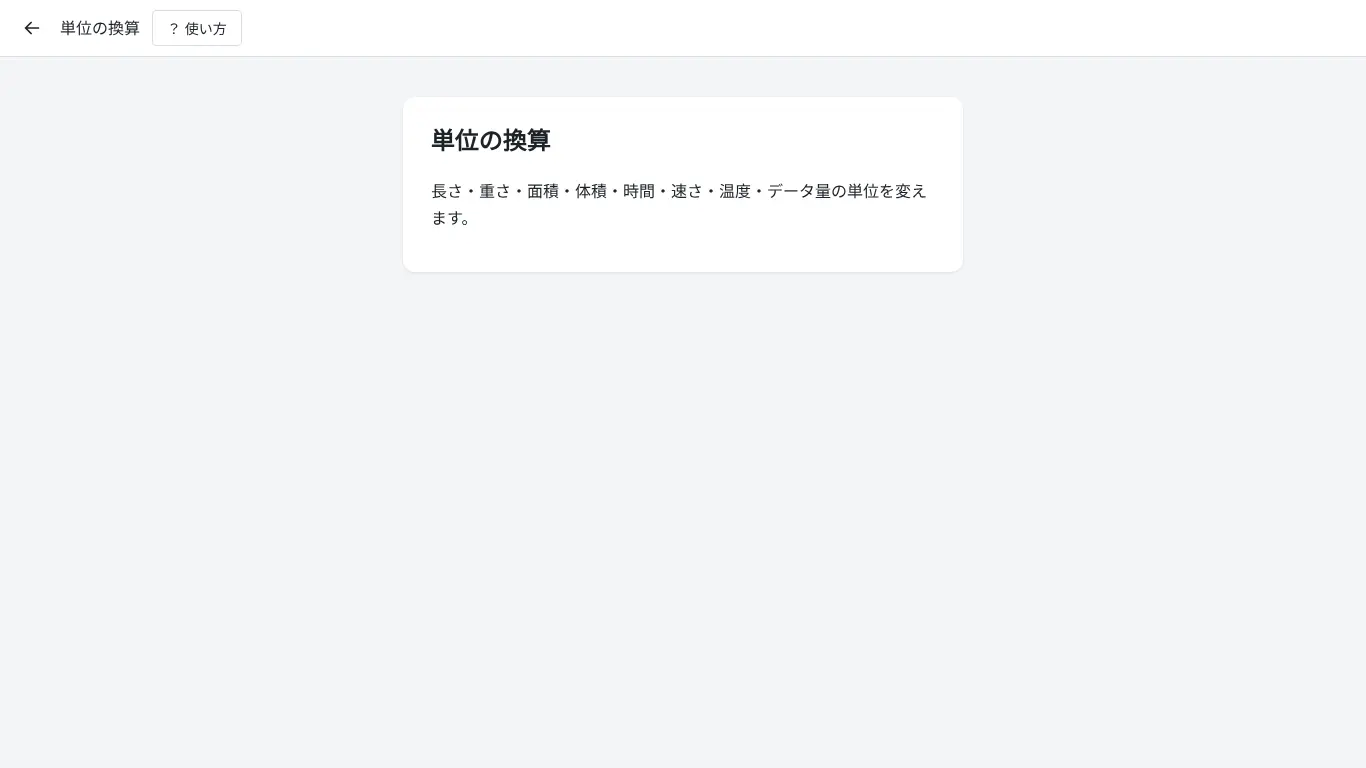
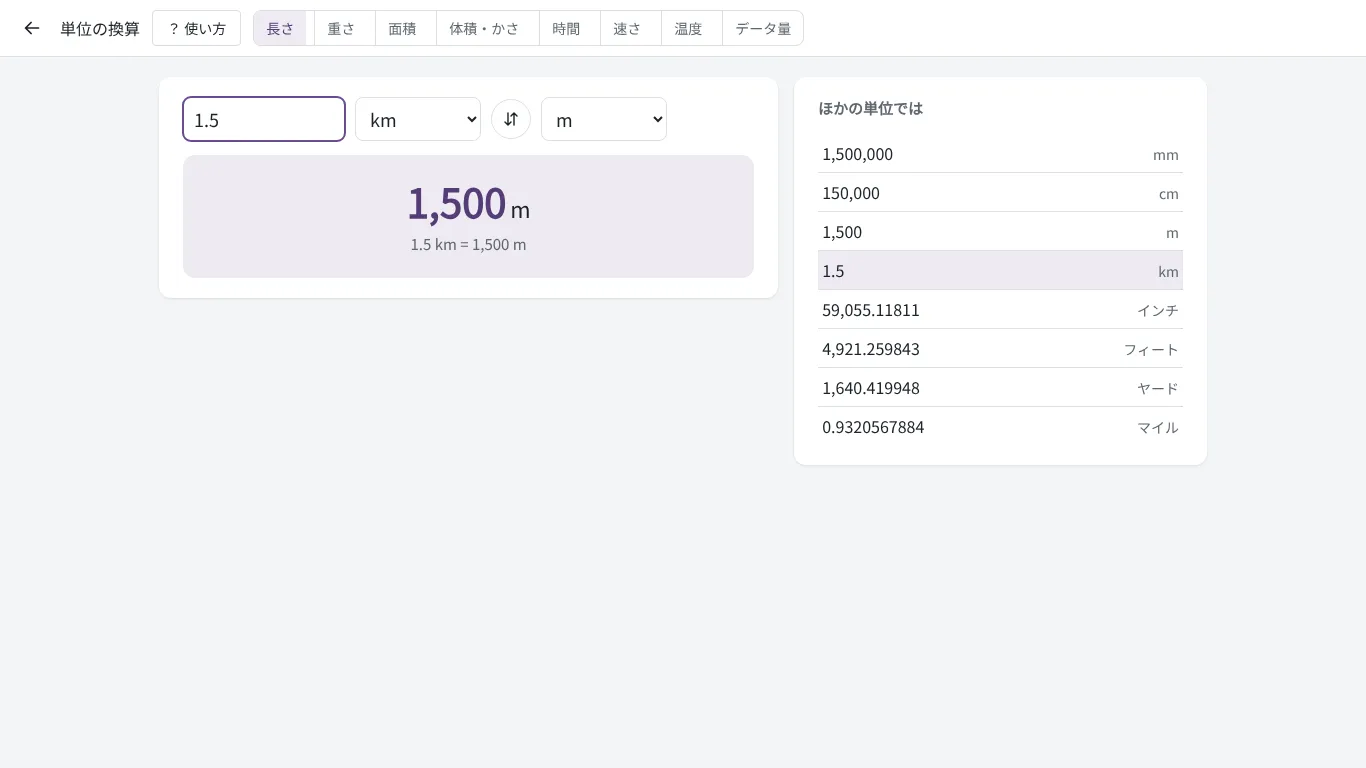
loop(unit-convert): docs 更新履歴に1行・説明書の画面写真を撮り直し
Claude-Session: https://claude.ai/code/session_01NRT8oferPSaKyerXMetUZR

diff --git a/shared/js/changelog.js b/shared/js/changelog.js
@@ -5,6 +5,7 @@ export const CHANGELOG = [
   {
     date: "2026-11-27",
     items: [
+      "「授業・勉強」に新しいツール「単位の換算」を追加：長さ・重さ・面積・体積・時間・速さ・温度・データ量の単位を、数を入れるだけで変えられる。答えと式（例 1 km = 1,000 m）が出て、右にはほかの単位での値も一覧で出る。インチ・ポンド・坪なども入っている。データ量は 1KB を 1024 バイトか 1000 バイトか選べる。最後に選んだ種類と単位は次に開いたときも残る。オフラインでも動く",
       "iPad の Apple Pencil や Chromebook のタッチペンに対応しました（「PDFに手書き・署名」「PDF一括採点」「画像に書き込み」「人の背景を消す」）：ペンで一度書くと「ペンだけ」がオンになり、ペンで書いて、指でさわるとスクロールになります。手を画面に置いたまま書いても、よけいな線が出ません。指で書きたいときは上の「ペンだけ」を押してオフにできます（タッチ画面のときだけボタンが出ます）。ペンを使わない人の動きは今までと同じです。「かおトリ」「かおかくし」も、長押しで文字の選択や虫めがねが出ないように。「ペンだけ」がオンのときは、2本指で広げる・つまむと拡大・縮小できます（PDFの2つのツールと画像に書き込み）",
       "「授業・勉強」に新しいツール「くじ引き」を追加：係決めや順番決めを、ルーレット（円が回って止まる）・あみだくじ（名前を押すと線をたどる。横線を自分で足すこともできる）・めくるくじ（番号のカードをめくる）・順番決め（全部をランダムに並べる）の4つから選んでできる。中身は名前・係・番号など何でもよく、「当たり」「はずれ」や番号はかんたんに入れられる。先生だけでなく生徒も使える。全画面にしてプロジェクターにも映せる",
     ],

diff --git a/manual/data.js b/manual/data.js
@@ -1183,12 +1183,12 @@ export const MANUAL = [
     steps: [
       { t: "種類を選ぶ", d: "上のタブで、長さ・重さ・温度などの種類を選びます。" },
       { t: "数と単位を入れる", d: "数を入れて、元の単位と変えたい単位を選ぶと、答えと式が出ます。" },
-      { t: "一覧を見る", d: "下の一覧に、その種類のすべての単位での値が出ます。" },
+      { t: "一覧を見る", d: "右の「ほかの単位では」に、その種類のすべての単位での値が出ます。" },
     ],
     buttons: [
       ["種類のタブ", "長さ・重さ・面積・体積・時間・速さ・温度・データ量"],
       ["入れかえ", "元の単位と変えたい単位を入れかえる"],
-      ["1KB = 1024B / 1000B", "データ量のときだけ。KB・MB などの数え方を選ぶ"],
+      ["1KB は 1024 / 1000 バイト", "データ量のときだけ。KB・MB などの数え方を選ぶ"],
     ],
     tips: [
       "最後に選んだ種類と単位は、次に開いたときも残っています",

diff --git a/loop/jobs/unit-convert/progress.md b/loop/jobs/unit-convert/progress.md
@@ -52,3 +52,8 @@
 
 ## 人より（周 9 のあと）
 - docs の check を shared/js/changelog.js を見るように直した。指摘ありがとう。
+
+## 周 10（docs）
+- shared/js/changelog.js の 2026-11-27 に単位の換算の1行、manual/data.js の説明2か所を画面に合わせ、manual/shots/unit-convert.webp を完成画面（1.5 km → m、1366×768、Noto Sans JP）に撮り直した。
+- check と verify.sh はすべて通った。全タスク完了。
+DONE
